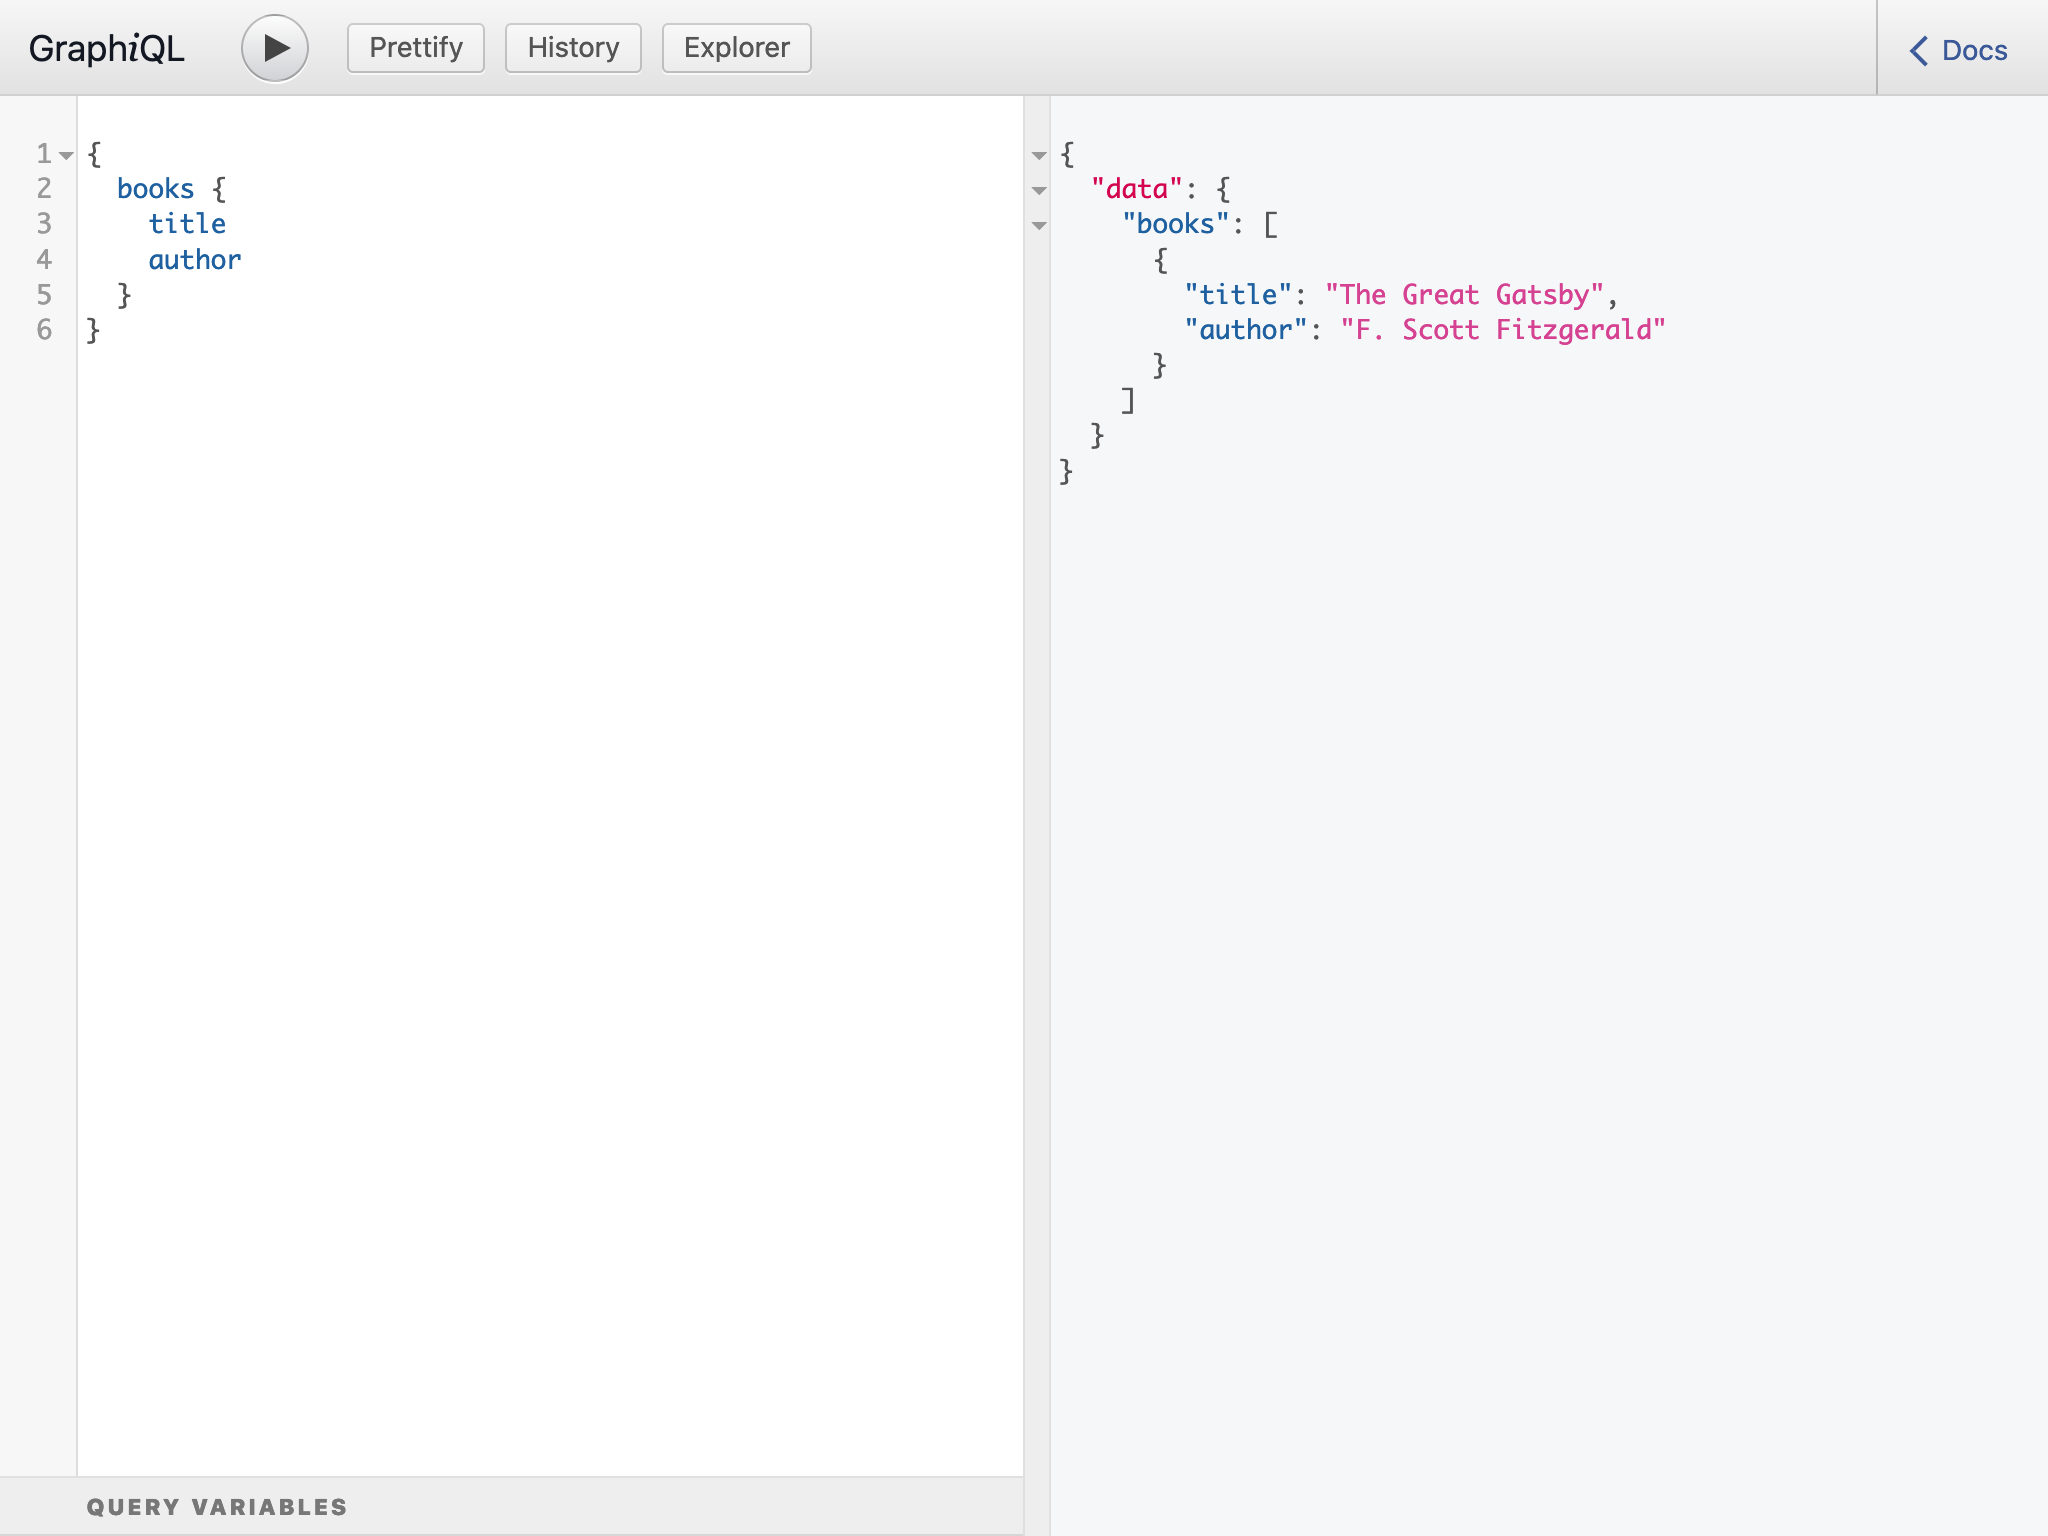
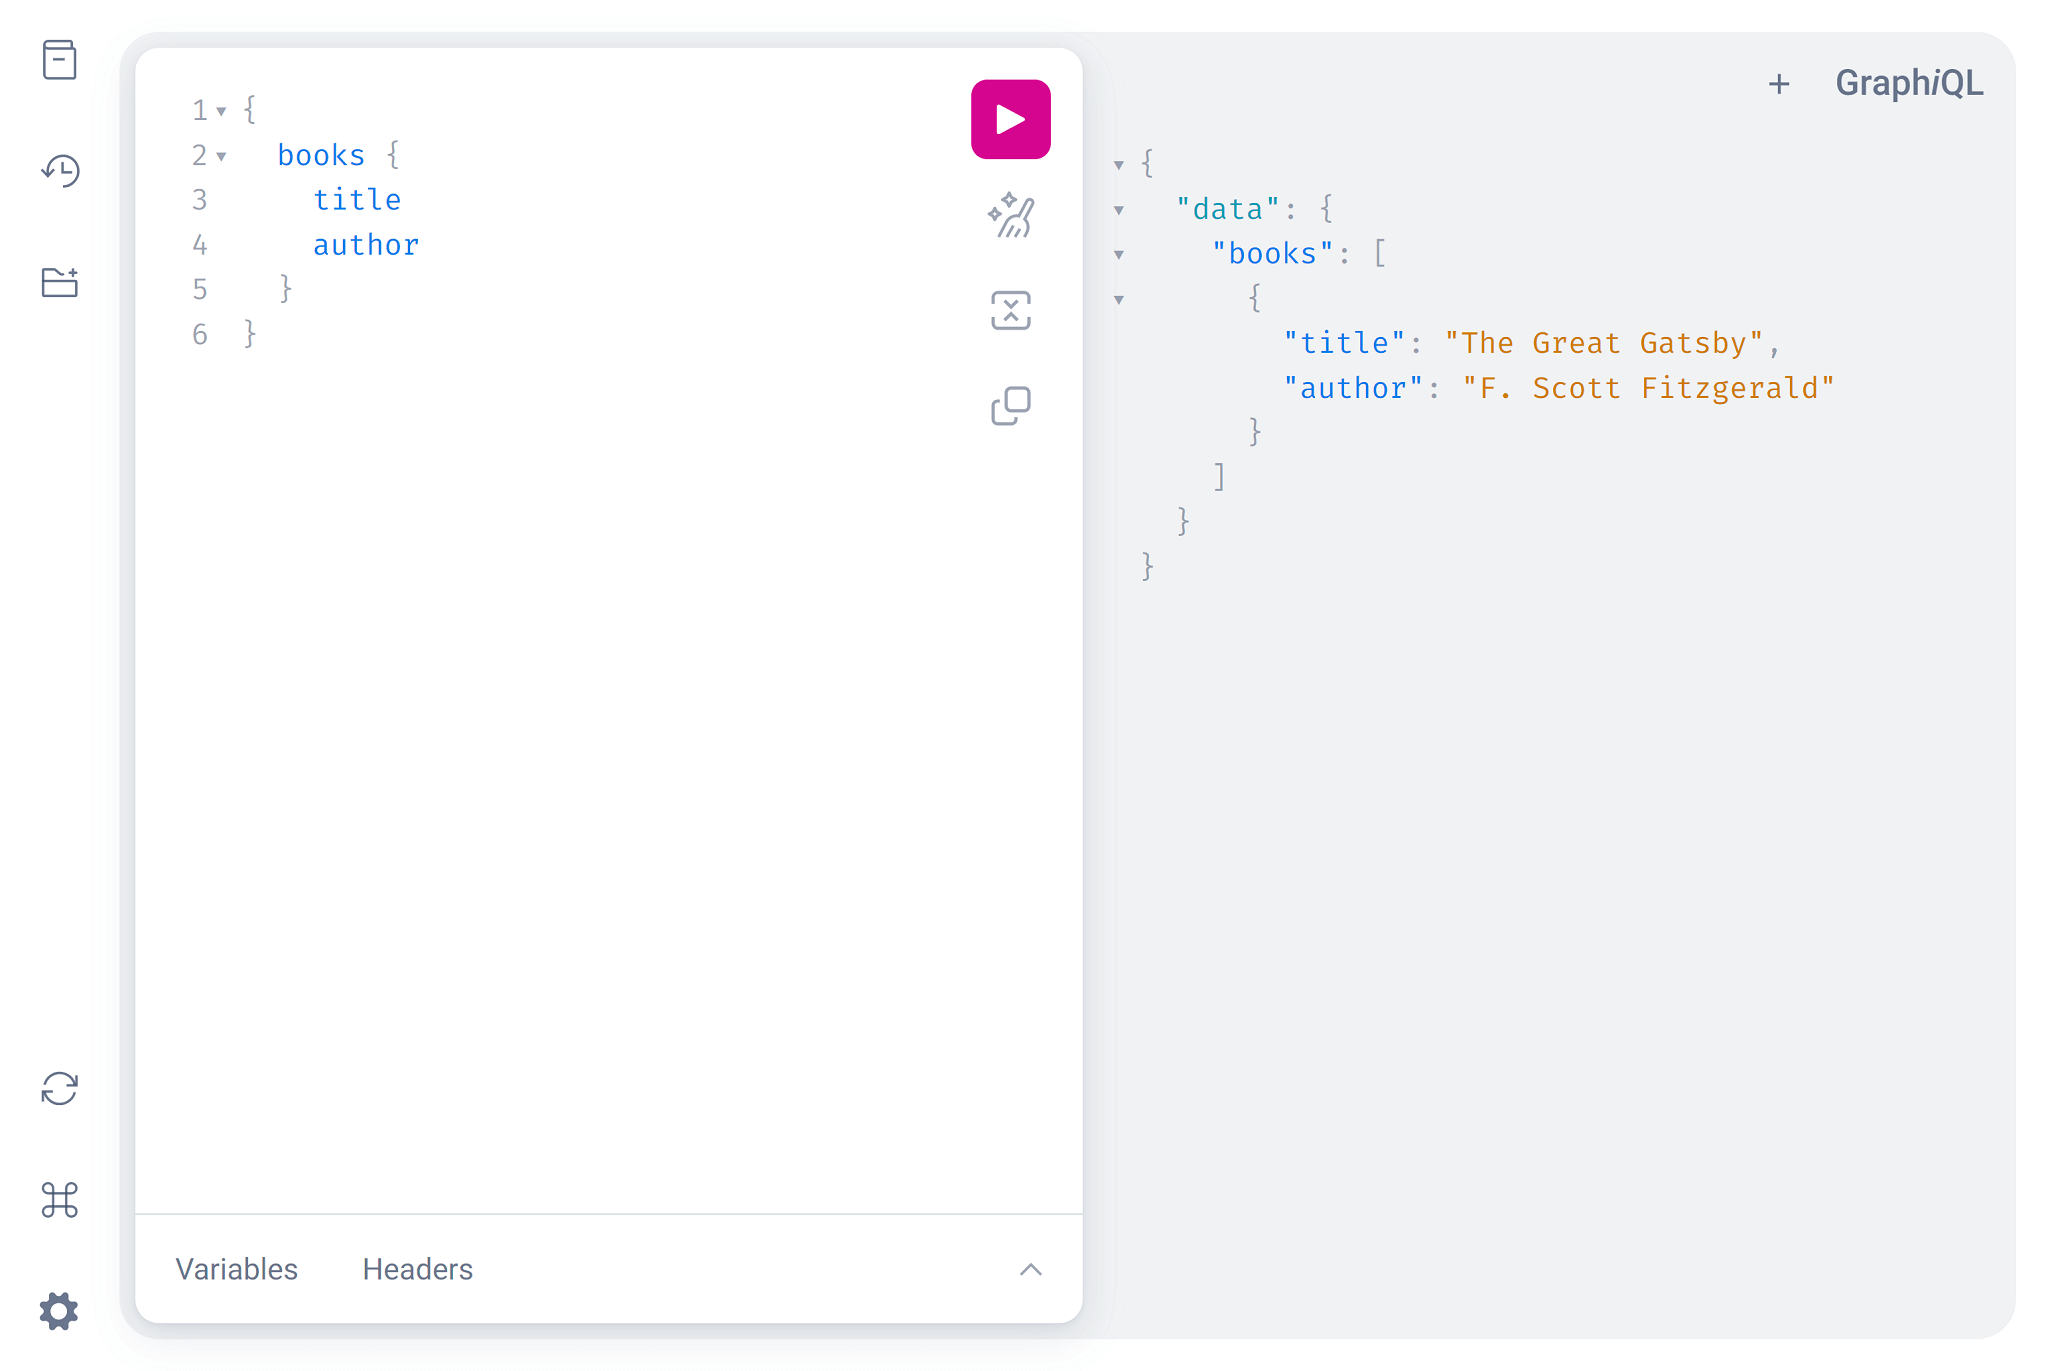
Update GraphiQL UI screenshot in Getting started (#2971)
* Update GraphiQL UI screenshot in Getting started

Use the screenshot from version 0.195.3.

* mend

* mend

* mend

diff --git a/docs/index.md b/docs/index.md
@@ -143,7 +143,7 @@ We can now execute GraphQL queries. Strawberry comes with a tool called
 
 You should see something like this:
 
-<img src="./images/index-server.png" alt="A view of the GraphiQL interface" width="2048" height="1536" />
+![A view of the GraphiQL interface](./images/index-server.png)
 
 The GraphiQL UI includes:
 
@@ -167,7 +167,7 @@ Paste the following string into the left area and then click the play button:
 
 You should see the hardcoded data appear on the right side:
 
-<img src="./images/index-query-example.png" alt="A view of the GraphiQL interface after running a GraphQL query" width="2048" height="1536" />
+![A view of the GraphiQL interface after running a GraphQL query](./images/index-query-example.png)
 
 GraphQL allows clients to query only the fields they need, go ahead and remove
 `author` from the query and run it again. The response should now only show the
